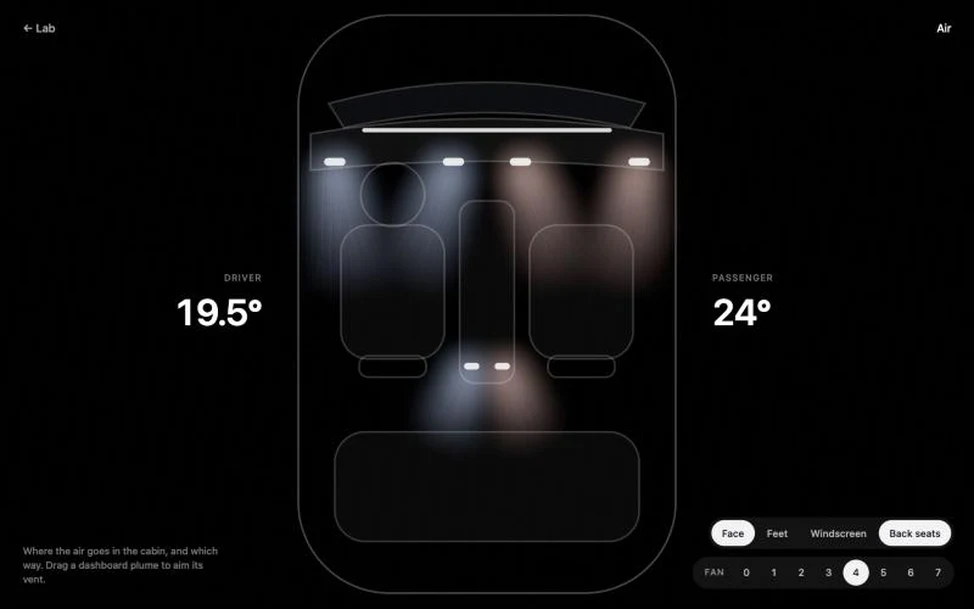
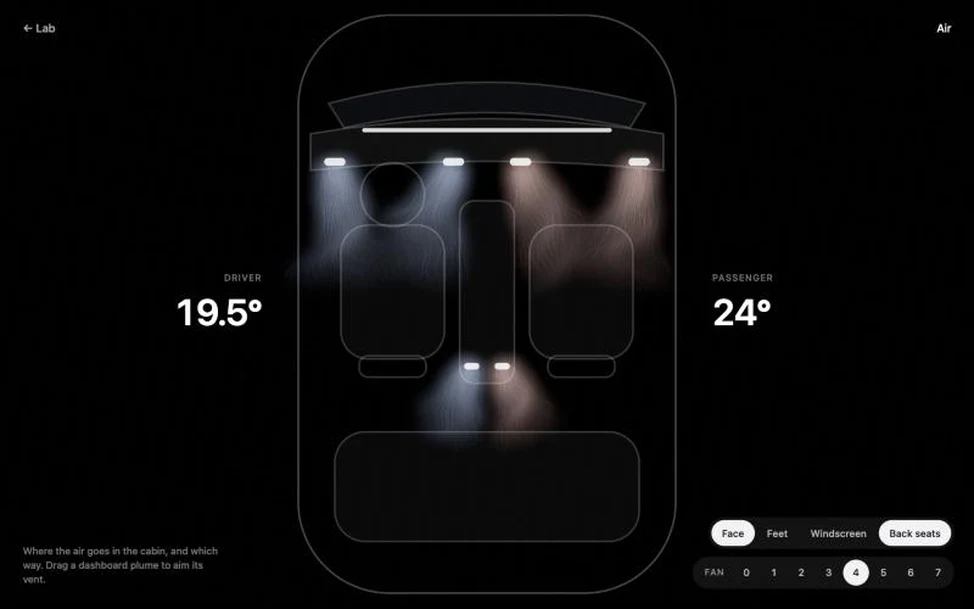
Air: the plumes waver and curl with distance, as air does when it leaves a vent

Changed region(s): [[0.308, 0.2184, 0.5852, 0.4056], [0.5852, 0.2184, 0.7084, 0.4056], [0.4312, 0.5616, 0.5544, 0.6864]]

diff --git a/src/air/main.ts b/src/air/main.ts
@@ -8,8 +8,9 @@ import './air.css'
  * spreads as it goes, and fades. It is cool blue on a cool side of the car and warm amber on a warm side.
  *
  * How the plumes are made: each is a fan of fine lines from its vent, with brighter runs travelling outward along them. The lines
- * themselves are barely shown. They are blurred several times over, and it is the blur that is seen, so the air reads as air: soft,
- * with only a hint of its grain and movement.
+ * leave the vent in order and lose it with distance, wavering and curling as air does when it meets still air. The lines
+ * themselves are shown only faintly. They are blurred, and it is mostly the blur that is seen, so the air reads as air: soft,
+ * with its strands and their movement still showing through.
  *
  * Touch a dashboard vent's plume and drag to aim it. The buttons choose where the air goes and how hard the fan blows.
  */
@@ -42,16 +43,19 @@ const settings = {
   warm: '#ffa45c',
   /** Lines in each plume and steps along each. */
   lanes: 30,
-  steps: 48,
+  steps: 72,
   /** How much of its full reach the air has with the fan at its lowest, how fast the runs travel at the lowest and at full, and the plume's slow sway. */
   least: 0.35,
   speed: [0.25, 1.1],
   sway: 0.035,
+  /** How far the air wavers from its straight line by the end of its reach (as a share of that reach), and how far its edges curl outward. */
+  waver: 0.13,
+  curl: 0.11,
   /** Brightness of the lines; how much of the picture is left after a 60th of a second; how much of the sharp lines shows through the blur; how strong the blur is. */
-  dot: 1.9,
+  dot: 1.55,
   stays: 0.86,
-  grain: 0.12,
-  soft: 2.4,
+  grain: 0.34,
+  soft: 1.7,
   gain: 1.25,
   /** How near a plume a touch must land to take hold of its vent (cabin units). */
   hold: 0.2,
@@ -115,6 +119,7 @@ const air = new THREE.ShaderMaterial({
     uRun: { value: 0 },
     uFan: { value: 0 },
     uLook: { value: new THREE.Vector3(settings.dot, settings.least, settings.sway) },
+    uTurn: { value: new THREE.Vector2(settings.waver, settings.curl) },
   },
   vertexShader: /* glsl */ `
     attribute float along, lane, vent;
@@ -122,6 +127,7 @@ const air = new THREE.ShaderMaterial({
     uniform vec3 uColour[${count}], uLook;
     uniform vec2 uShape;
     uniform float uTime, uRun, uFan;
+    uniform vec2 uTurn;
     varying vec3 vLight;
     void main() {
       int i = int(vent + 0.5);
@@ -136,7 +142,18 @@ const air = new THREE.ShaderMaterial({
       float far = form.x * mix(uLook.y, 1.0, uFan) * along;
       // Air slows as it goes: the lines bend a little with distance, each its own way, so the far end is loose.
       float own = fract(sin((lane + vent * 3.1) * 91.7) * 43758.5453);
-      vec2 p = from.xy + across * lane * form.z * 0.5 + heading * far + across * (own - 0.5) * 0.05 * along * along;
+      vec2 p = from.xy + across * lane * form.z * 0.5 + heading * far;
+      // Air does not travel in straight lines. It leaves the vent in order and loses it with distance: the plume wavers from side
+      // to side, the waves travel outward with the air, neighbouring lines move together, and each line strays a little by itself.
+      // The edges, where it meets still air, curl outward the most.
+      vec2 beside = vec2(-heading.y, heading.x);
+      float loose = along * sqrt(along);
+      float drift = uTime * (0.35 + 0.9 * uFan);
+      float billow = 0.62 * sin(6.2831853 * (along * 1.15 - drift * 0.5) + vent * 2.3 + lane * 1.1)
+                   + 0.3 * sin(6.2831853 * (along * 2.6 - drift * 0.8) + vent * 4.1 + lane * 2.7)
+                   + 0.11 * sin(6.2831853 * (along * 4.3 - drift * 1.1) + own * 6.2831853);
+      float curl = lane * abs(lane) * (0.55 + 0.45 * sin(6.2831853 * (along * 1.7 - drift * 0.6) + vent));
+      p += beside * (billow * uTurn.x + curl * uTurn.y) * loose * form.x;
       gl_Position = vec4(p * uShape, 0.0, 1.0);
       // Brighter runs travel outward; the air is strongest at the vent and gone by the end of its reach; the middle lines are strongest.
       float run = 0.45 + 0.55 * pow(0.5 + 0.5 * cos(6.2831853 * (along * 1.6 - uRun + own)), 2.0);
@@ -310,9 +327,9 @@ function draw(now: number) {
   renderer.setRenderTarget(trails[1 - turn])
   renderer.render(fading, flat)
   renderer.render(drawing, flat)
-  // Blurred, a quarter the size, three times over and wider each time: this is the air that is seen.
+  // Blurred, a quarter the size, twice over and wider the second time: this is most of the air that is seen.
   let from = trails[1 - turn].texture
-  for (const wide of [1, 2.2, 4]) {
+  for (const wide of [1, 2.4]) {
     blur.uniforms.uFrom.value = from
     blur.uniforms.uWay.value.set(wide / soft[0].width, 0)
     renderer.setRenderTarget(soft[0])

diff --git a/README.md b/README.md
@@ -402,7 +402,7 @@ It is a study of the idea, not a product: the map, the tracks and the car's numb
 - The buttons choose where the air goes (face, feet, windscreen, back seats) and how hard the fan blows; more fan reaches further and moves faster.
 - Take hold of a dashboard plume and drag to aim its vent.
 
-How the plumes are made: each is a fan of fine lines from its vent, with brighter runs travelling outward. The lines themselves are barely shown; they are blurred three times over, and it is the blur that is seen, so the air reads as air. It runs on today's WebGL. Two earlier versions are in the history: points wandering through a changing flow, and crisp wires along one drawn path.
+How the plumes are made: each is a fan of fine lines from its vent, with brighter runs travelling outward. The lines are not straight: they leave the vent in order and lose it with distance, wavering from side to side in waves that travel outward with the air, neighbouring lines moving together, and the plume's edges curling outward where it meets still air (`waver` and `curl` in the settings). The lines are shown faintly over a blurred copy of themselves, so the air reads as air with its strands still showing. It runs on today's WebGL. Two earlier versions are in the history: points wandering through a changing flow, and crisp wires along one drawn path.
 
 ## Lab canvas (the entry page)
 
